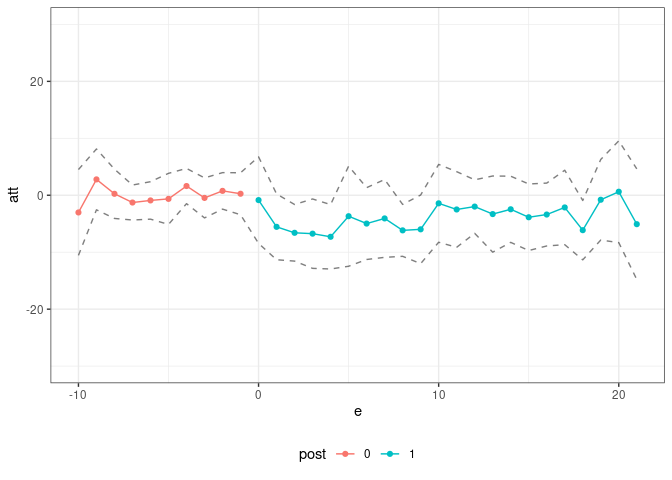
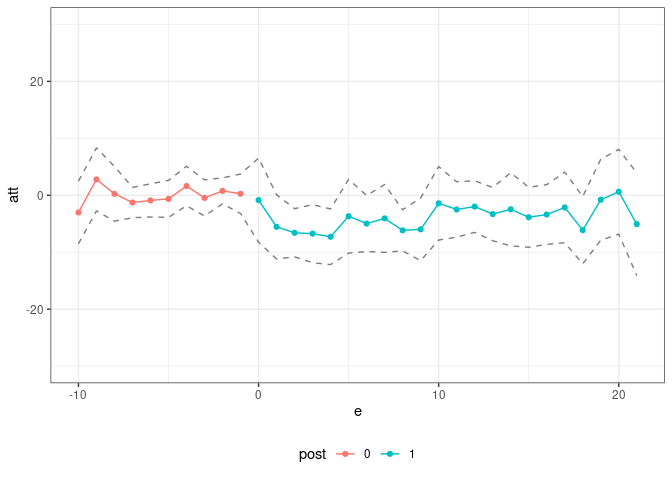
small fixes to readme

diff --git a/README.md b/README.md
@@ -4,16 +4,16 @@
 # Pandemic Policy Evaluation (ppe) package
 
 The `ppe` package contains code for estimating policy effects during the
-pandemic. It is the companion code for [Callaway and Li (2021). Policy
+pandemic. It is the companion code for [Callaway and Li (2021), Policy
 Evaluation during a Pandemic](https://arxiv.org/abs/2105.06927). The
 central idea of that paper is to compare locations who implemented some
-policy to other locations that did not implement the policy *and that
-had the same pre-treatment values of Covid-19 related characteristics*.
-These characteristics definitely include (i) the current number of cases
-and (ii) the number of susceptible individuals (or equivalently the
-cumulative number of cases). They might also include demographic
-characteristics, population densities, region of the country, among
-others.
+Covid-19 related policy to other locations that did not implement the
+policy *and that had the same pre-treatment values of Covid-19 related
+characteristics*. These characteristics definitely include (i) the
+current number of cases and (ii) the number of susceptible individuals
+(or equivalently the cumulative number of cases). They might also
+include demographic characteristics, population densities, region of the
+country, among others.
 
 This amounts to an unconfoundedness-type strategy. In the paper, we
 compare it to a difference in differences strategy and argue that the
@@ -96,43 +96,43 @@ summary(res)
 #> 
 #> Overall ATT:  
 #>      ATT    Std. Error     [ 95%  Conf. Int.] 
-#>  14.8882       62.3559  -107.3272    137.1035 
+#>  14.8882       82.0311  -145.8899    175.6662 
 #> 
 #> 
 #> Dynamic Effects:
 #>  Event Time Estimate Std. Error     [95%  Conf. Band] 
-#>         -10  -3.7266     4.1438  -15.6623      8.2090 
-#>          -9   2.6607     1.6598   -2.1202      7.4416 
-#>          -8   0.8290     1.8678   -4.5510      6.2089 
-#>          -7   5.2843     2.2360   -1.1562     11.7249 
-#>          -6   2.8555     2.2317   -3.5726      9.2836 
-#>          -5   1.3589     3.0987   -7.5663     10.2841 
-#>          -4   0.3294     4.4509  -12.4908     13.1495 
-#>          -3  -4.2227     4.9524  -18.4873     10.0420 
-#>          -2  -3.8447     2.7785  -11.8477      4.1582 
-#>          -1  -0.2234     3.4595  -10.1879      9.7411 
-#>           0 -10.8156     9.3003  -37.6037     15.9724 
-#>           1 -13.7998    14.9859  -56.9641     29.3645 
-#>           2  -7.8432    12.9193  -45.0550     29.3686 
-#>           3  -4.5541     8.0687  -27.7947     18.6864 
-#>           4  -3.5368    11.9346  -37.9125     30.8389 
-#>           5   8.5221    11.6450  -25.0194     42.0636 
-#>           6   1.1140    17.3483  -48.8549     51.0829 
-#>           7   6.6384    21.7908  -56.1264     69.4033 
-#>           8   7.1288    22.8506  -58.6886     72.9462 
-#>           9  10.8758    34.4597  -88.3798    110.1314 
-#>          10  17.5057    34.6000  -82.1537    117.1651 
-#>          11  40.8318    46.6711  -93.5965    175.2601 
-#>          12  48.6134    52.8799 -103.6984    200.9251 
-#>          13  52.4228    61.2122 -123.8889    228.7345 
-#>          14  50.2000    50.5074  -95.2782    195.6783 
-#>          15  68.2960    85.2968 -177.3873    313.9793 
-#>          16  44.7305    71.6228 -161.5671    251.0281 
-#>          17  61.4670    84.4064 -181.6516    304.5855 
-#>          18  50.4635   114.2564 -278.6330    379.5600 
-#>          19  47.3392   127.5906 -320.1643    414.8427 
-#>          20  28.6326   107.1552 -280.0101    337.2754 
-#>          21   4.3445   180.4437 -515.3937    524.0827 
+#>         -10  -3.7266     3.1866  -12.5207      5.0674 
+#>          -9   2.6607     1.9686   -2.7721      8.0934 
+#>          -8   0.8290     2.4872   -6.0351      7.6930 
+#>          -7   5.2843     1.9902   -0.2082     10.7768 
+#>          -6   2.8555     2.1240   -3.0060      8.7170 
+#>          -5   1.3589     3.7612   -9.0208     11.7386 
+#>          -4   0.3294     4.3537  -11.6856     12.3443 
+#>          -3  -4.2227     4.6343  -17.0119      8.5665 
+#>          -2  -3.8447     3.3393  -13.0603      5.3708 
+#>          -1  -0.2234     3.6395  -10.2672      9.8204 
+#>           0 -10.8156     9.1844  -36.1618     14.5305 
+#>           1 -13.7998    15.5314  -56.6618     29.0622 
+#>           2  -7.8432    10.7932  -37.6291     21.9428 
+#>           3  -4.5541    11.4520  -36.1583     27.0500 
+#>           4  -3.5368    10.5804  -32.7356     25.6620 
+#>           5   8.5221    11.9627  -24.4913     41.5355 
+#>           6   1.1140    14.9703  -40.1996     42.4276 
+#>           7   6.6384    18.8443  -45.3662     58.6431 
+#>           8   7.1288    25.0843  -62.0966     76.3542 
+#>           9  10.8758    26.6884  -62.7763     84.5280 
+#>          10  17.5057    33.8652  -75.9523    110.9637 
+#>          11  40.8318    33.9059  -52.7384    134.4019 
+#>          12  48.6134    41.7463  -66.5942    163.8209 
+#>          13  52.4228    52.4409  -92.2987    197.1443 
+#>          14  50.2000    56.1049 -104.6328    205.0329 
+#>          15  68.2960    55.2406  -84.1516    220.7436 
+#>          16  44.7305    88.7289 -200.1352    289.5962 
+#>          17  61.4670   123.2700 -278.7219    401.6559 
+#>          18  50.4635   104.9096 -239.0559    339.9829 
+#>          19  47.3392   148.4732 -362.4030    457.0814 
+#>          20  28.6326   133.6901 -340.3125    397.5778 
+#>          21   4.3445   142.3427 -388.4793    397.1683 
 #> ---
 #> Signif. codes: `*' confidence band does not cover 0
 ```
@@ -145,7 +145,7 @@ ggpte(res) + ylim(c(-1000,1000))
 
 ![](man/figures/README-unnamed-chunk-7-1.png)<!-- -->
 
-To conclude, we provide estimate effects of the effects of
+To conclude, we provide estimated effects of the effects of
 shelter-in-place orders on travel. In the paper, we mainly consider the
 case where (i) the policy can have a direct effect on travel, (ii) the
 policy can have a direct effect on Covid-19 cases, and (iii) Covid-19
@@ -171,52 +171,48 @@ oo_res <- pte(yname="retail_and_recreation_percent_change_from_baseline",
            min_e=-10,
            Iname="current",
            adjustI=TRUE) 
-#> Warning in compute.aggte(MP = MP, type = type, balance_e = balance_e, min_e
-#> = min_e, : Simultaneous conf. band is somehow smaller than pointwise one
-#> using normal approximation. Since this is unusual, we are reporting pointwise
-#> confidence intervals
 
 summary(oo_res)
 #> 
 #> Overall ATT:  
 #>      ATT    Std. Error     [ 95%  Conf. Int.]  
-#>  -3.9162        1.8308    -7.5045      -0.328 *
+#>  -3.9162        1.2671    -6.3997     -1.4328 *
 #> 
 #> 
 #> Dynamic Effects:
 #>  Event Time Estimate Std. Error    [95%  Conf. Band]  
-#>         -10  -3.0210     2.4636 -10.5547      4.5127  
-#>          -9   2.7846     1.7463  -2.5557      8.1249  
-#>          -8   0.2543     1.4148  -4.0722      4.5809  
-#>          -7  -1.2765     1.0040  -4.3467      1.7937  
-#>          -6  -0.9085     1.0752  -4.1965      2.3795  
-#>          -5  -0.6359     1.4659  -5.1186      3.8468  
-#>          -4   1.6184     1.0121  -1.4767      4.7135  
-#>          -3  -0.4660     1.1486  -3.9784      3.0465  
-#>          -2   0.7693     1.0473  -2.4333      3.9720  
-#>          -1   0.2643     1.2045  -3.4190      3.9476  
-#>           0  -0.8510     2.4843  -8.4483      6.7462  
-#>           1  -5.5461     1.8891 -11.3230      0.2308  
-#>           2  -6.5928     1.6249 -11.5617     -1.6239 *
-#>           3  -6.7447     1.9919 -12.8360     -0.6535 *
-#>           4  -7.2925     1.8490 -12.9467     -1.6383 *
-#>           5  -3.6784     2.8741 -12.4675      5.1107  
-#>           6  -4.9731     2.0622 -11.2794      1.3332  
-#>           7  -4.0683     2.2348 -10.9023      2.7657  
-#>           8  -6.1649     1.4898 -10.7208     -1.6090 *
-#>           9  -5.9830     1.9711 -12.0108      0.0448  
-#>          10  -1.4185     2.2347  -8.2524      5.4154  
-#>          11  -2.4974     2.1715  -9.1379      4.1431  
-#>          12  -1.9884     1.5368  -6.6880      2.7111  
-#>          13  -3.3056     2.1864  -9.9917      3.3806  
-#>          14  -2.4633     1.8998  -8.2730      3.3464  
-#>          15  -3.8627     1.9105  -9.7050      1.9797  
-#>          16  -3.3849     1.8051  -8.9050      2.1352  
-#>          17  -2.1404     2.1371  -8.6758      4.3950  
-#>          18  -6.1309     1.7045 -11.3434     -0.9184 *
-#>          19  -0.7883     2.3134  -7.8628      6.2862  
-#>          20   0.6190     2.9215  -8.3151      9.5532  
-#>          21  -5.0789     3.1757 -14.7903      4.6324  
+#>         -10  -3.0210     2.0256  -8.5155      2.4735  
+#>          -9   2.7846     2.0401  -2.7493      8.3186  
+#>          -8   0.2543     1.7692  -4.5446      5.0533  
+#>          -7  -1.2765     0.9825  -3.9415      1.3884  
+#>          -6  -0.9085     1.0728  -3.8185      2.0015  
+#>          -5  -0.6359     1.1975  -3.8843      2.6124  
+#>          -4   1.6184     1.2775  -1.8470      5.0838  
+#>          -3  -0.4660     1.1682  -3.6347      2.7028  
+#>          -2   0.7693     0.8388  -1.5060      3.0447  
+#>          -1   0.2643     1.2777  -3.2015      3.7300  
+#>           0  -0.8510     2.7207  -8.2309      6.5289  
+#>           1  -5.5461     2.0760 -11.1773      0.0851  
+#>           2  -6.5928     1.5579 -10.8187     -2.3669 *
+#>           3  -6.7447     1.8791 -11.8417     -1.6477 *
+#>           4  -7.2925     1.8004 -12.1760     -2.4090 *
+#>           5  -3.6784     2.3887 -10.1577      2.8009  
+#>           6  -4.9731     1.8145  -9.8949     -0.0513 *
+#>           7  -4.0683     2.1939 -10.0192      1.8826  
+#>           8  -6.1649     1.3315  -9.7765     -2.5532 *
+#>           9  -5.9830     2.0276 -11.4829     -0.4831 *
+#>          10  -1.4185     2.3772  -7.8669      5.0298  
+#>          11  -2.4974     1.7935  -7.3623      2.3675  
+#>          12  -1.9884     1.6695  -6.5171      2.5403  
+#>          13  -3.3056     1.7232  -7.9797      1.3686  
+#>          14  -2.4633     2.3675  -8.8853      3.9587  
+#>          15  -3.8627     1.9419  -9.1301      1.4048  
+#>          16  -3.3849     1.9327  -8.6275      1.8576  
+#>          17  -2.1404     2.2861  -8.3415      4.0607  
+#>          18  -6.1309     2.1794 -12.0425     -0.2193 *
+#>          19  -0.7883     2.6213  -7.8986      6.3220  
+#>          20   0.6190     2.7413  -6.8168      8.0549  
+#>          21  -5.0789     3.3228 -14.0921      3.9342  
 #> ---
 #> Signif. codes: `*' confidence band does not cover 0
 
